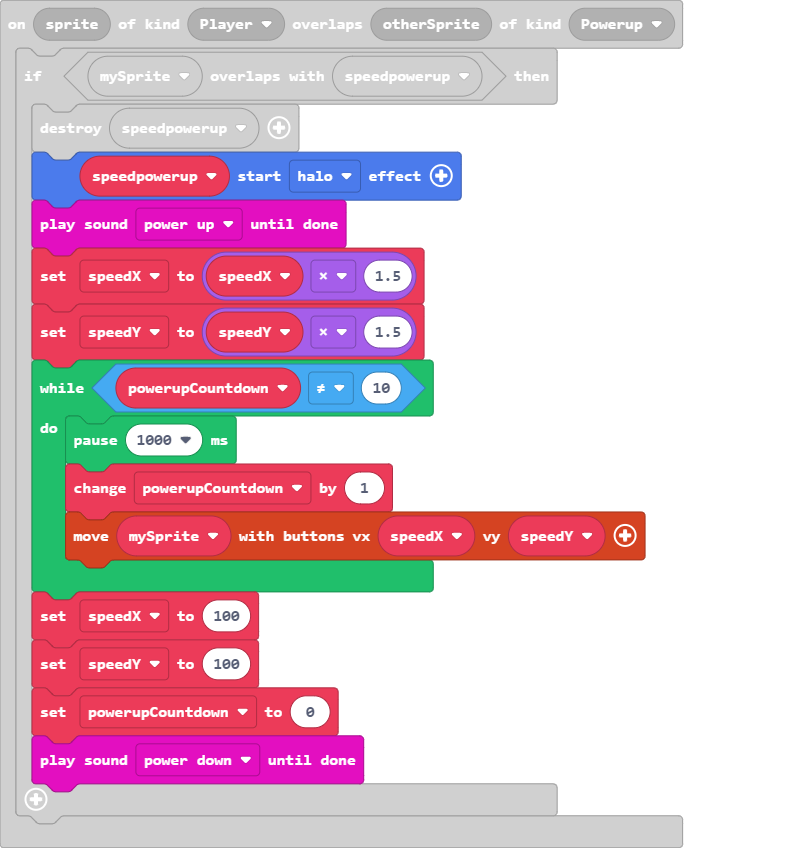
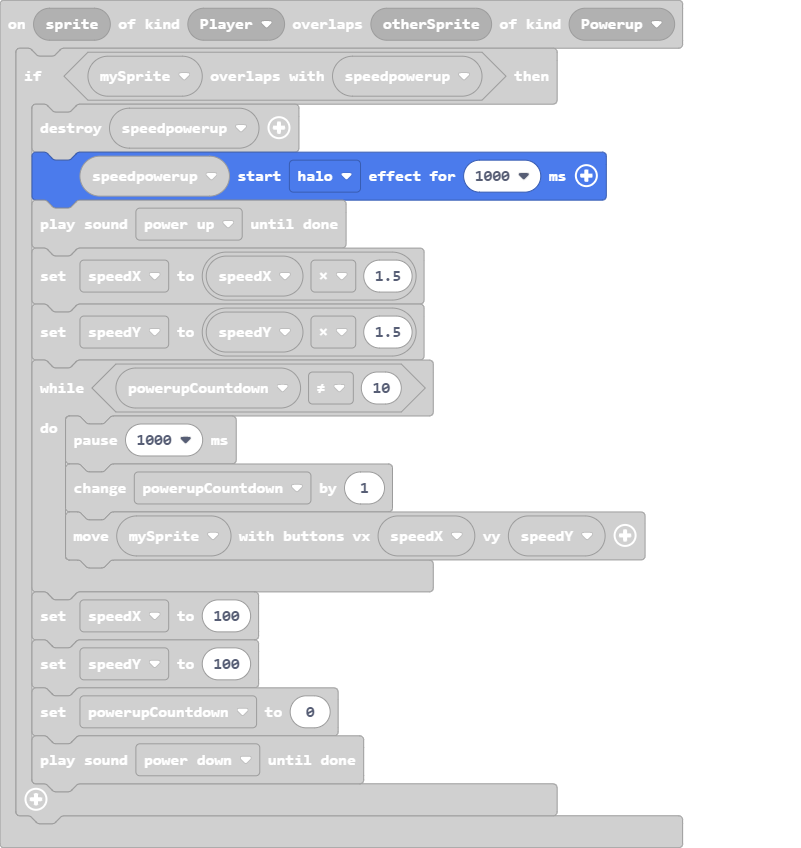
Update main.blocks, main.ts

Changed region(s): [[0.0312, 0.184, 0.8115, 0.9505], [0.5306, 0.1533, 0.7803, 0.2453]]

diff --git a/main.ts b/main.ts
@@ -4,7 +4,7 @@ namespace SpriteKind {
 sprites.onOverlap(SpriteKind.Player, SpriteKind.Powerup, function (sprite, otherSprite) {
     if (mySprite.overlapsWith(speedpowerup)) {
         speedpowerup.destroy()
-        speedpowerup.startEffect(effects.halo)
+        speedpowerup.startEffect(effects.halo, 1000)
         music.powerUp.playUntilDone()
         speedX = speedX * 1.5
         speedY = speedY * 1.5
